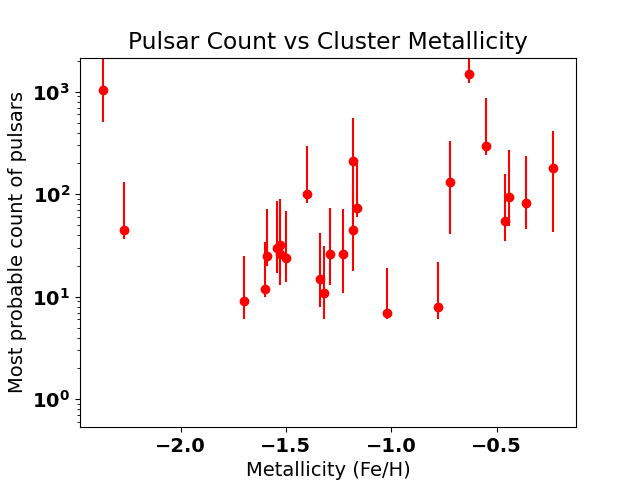
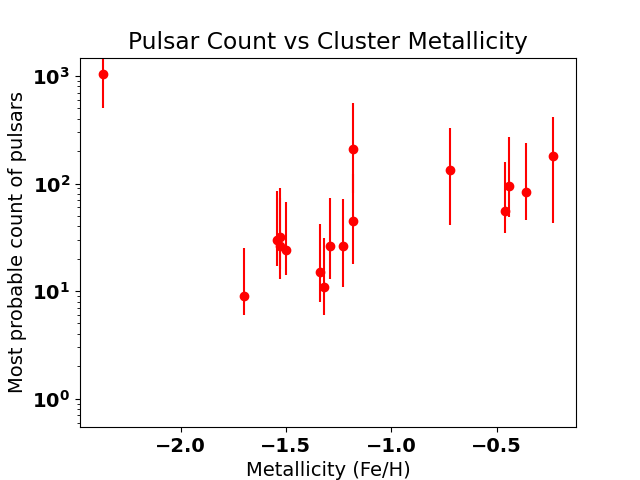
adjusted minimum datapoint value

diff --git a/readClusterData.py b/readClusterData.py
@@ -44,7 +44,7 @@ GENERATE_PLOTS = [ #code name, table header tuples
         ("encounterRate", "Pulsar Count vs Encounter Rate", "Encounter Rate")
     ]
 
-MIN_OBSERVATIONS = 0 #adjust to eliminate low-data clusters
+MIN_OBSERVATIONS = 2 #adjust to eliminate low-data clusters
     
 with open("clusterData.dat") as dataFile:
     #here we go. First, load into a list:
@@ -105,8 +105,14 @@ with open("clusterData.dat") as dataFile:
             if encName in encounterList[i]:
                 encIndex = i
                 break
+        outliers = None
+        with open("encRateOutliers.dat", "r") as outliersFile:
+            outliers = [line.strip()+" " for line in outliersFile.readlines()]
         if encIndex is None:
             print(f"Cluster {clusterName} not in external dataset")
+        #trying a thing
+        #elif encName in outliers:
+            #print(f"Cluster {clusterName} is excluded from encounter analysis")
         else:
             encRateString = encounterList[encIndex][58:66]
             encRateMan, encRateExp = float(encRateString.split("E")[0]), int(encRateString.split("E")[1])
@@ -143,26 +149,26 @@ for valueName, title, yLable in GENERATE_PLOTS:
     xErrorMin = []
     xErrorMax = []
     for clusterName in clusterDic.keys():
-
-        xValues.append(clusterDic[clusterName]["probableCount"])
-        xValuesRatios.append(clusterDic[clusterName]["numPerMass"])
+        if clusterDic[clusterName]["obsCount"] >= MIN_OBSERVATIONS:
+            xValues.append(clusterDic[clusterName]["probableCount"])
+            xValuesRatios.append(clusterDic[clusterName]["numPerMass"])
         
-        #two clusters dont have encounter rates
-        #handle that here
-        removed = False
-        try:
-            yValues.append(clusterDic[clusterName][valueName])
-        except KeyError:
-            if valueName == "encounterRate":
-                xValues.pop() #keep lists aligned
-                xValuesRatios.pop()
-                removed = True
-            else:
-                raise KeyError("oops")
+            #two clusters dont have encounter rates
+            #handle that here
+            removed = False
+            try:
+                yValues.append(clusterDic[clusterName][valueName])
+            except KeyError:
+                if valueName == "encounterRate":
+                    xValues.pop() #keep lists aligned
+                    xValuesRatios.pop()
+                    removed = True
+                else:
+                    raise KeyError("oops")
             
-        if not removed:
-            xErrorMin.append(clusterDic[clusterName]["95min"])
-            xErrorMax.append(clusterDic[clusterName]["95max"])
+            if not removed:
+                xErrorMin.append(clusterDic[clusterName]["95min"])
+                xErrorMax.append(clusterDic[clusterName]["95max"])
         
     properties[valueName] = list(zip(xValues, yValues))
         
